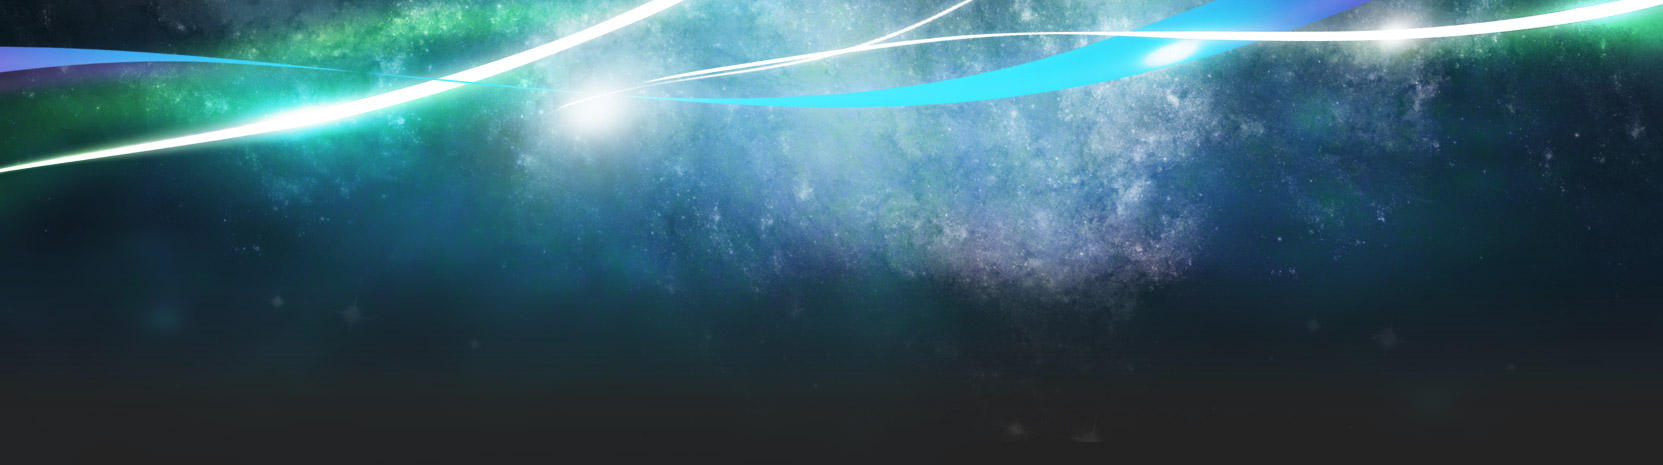
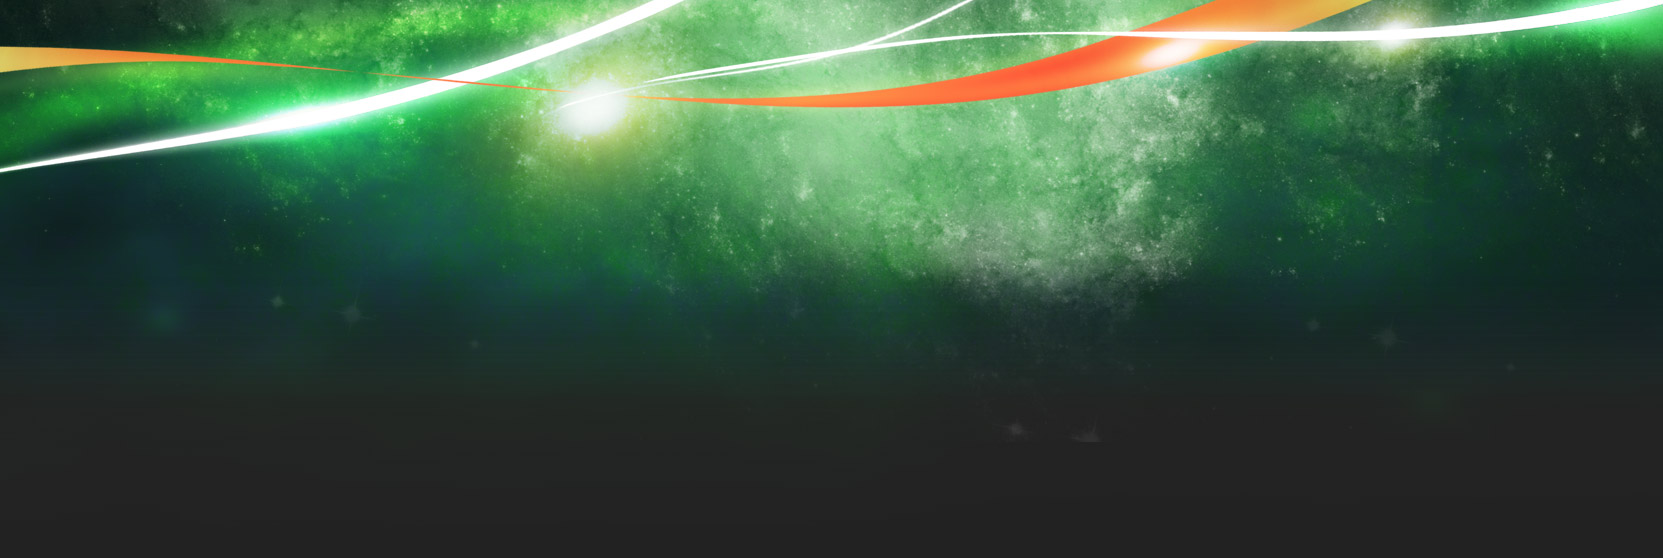
header and toolbars

diff --git a/app/assets/stylesheets/bootstrap/_modals.scss b/app/assets/stylesheets/bootstrap/_modals.scss
@@ -74,8 +74,9 @@
     color: $white;
     & > .close {
       position: absolute;
-      top: 12px;
+      top: 22px;
       right: 20px;
+      color:#ffd000;
     }
     & > h2 {
       padding: 15px 20px 10px;
@@ -100,6 +101,19 @@
          color: $white;
         }
       }
+    }
+    &.gamersph-header {
+      background: #858585; /* Old browsers */
+      background: -moz-linear-gradient(top,  #858585 0%, #505050 52%, #3e3e3e 53%, #1d1d1d 100%, #b0b0b0 100%); /* FF3.6+ */
+      background: -webkit-gradient(linear, left top, left bottom, color-stop(0%,#858585), color-stop(52%,#505050), color-stop(53%,#3e3e3e), color-stop(100%,#1d1d1d), color-stop(100%,#b0b0b0)); /* Chrome,Safari4+ */
+      background: -webkit-linear-gradient(top,  #858585 0%,#505050 52%,#3e3e3e 53%,#1d1d1d 100%,#b0b0b0 100%); /* Chrome10+,Safari5.1+ */
+      background: -o-linear-gradient(top,  #858585 0%,#505050 52%,#3e3e3e 53%,#1d1d1d 100%,#b0b0b0 100%); /* Opera 11.10+ */
+      background: -ms-linear-gradient(top,  #858585 0%,#505050 52%,#3e3e3e 53%,#1d1d1d 100%,#b0b0b0 100%); /* IE10+ */
+      background: linear-gradient(to bottom,  #858585 0%,#505050 52%,#3e3e3e 53%,#1d1d1d 100%,#b0b0b0 100%); /* W3C */
+      filter: progid:DXImageTransform.Microsoft.gradient( startColorstr='#858585', endColorstr='#b0b0b0',GradientType=0 ); /* IE6-9 */
+        h2 {color:#ffd000;}
+
+
     }
   }
 
@@ -130,5 +144,31 @@
     margin-left: 5px;
     margin-bottom: 0;
     // account for input[type="submit"] which gets the bottom margin like all other inputs
+  }
+}
+
+
+.reg-modal-footer {
+  padding-top: 0;
+  ul.reg-cta {
+    list-style: none;
+    margin:0;
+    .ph-register {
+      background-color: hsl(43, 87%, 47%) !important;
+      background-repeat: repeat-x;
+      filter: progid:DXImageTransform.Microsoft.gradient(startColorstr="#f4ca61", endColorstr="#e0a50f");
+      background-image: -khtml-gradient(linear, left top, left bottom, from(#f4ca61), to(#e0a50f));
+      background-image: -moz-linear-gradient(top, #f4ca61, #e0a50f);
+      background-image: -ms-linear-gradient(top, #f4ca61, #e0a50f);
+      background-image: -webkit-gradient(linear, left top, left bottom, color-stop(0%, #f4ca61), color-stop(100%, #e0a50f));
+      background-image: -webkit-linear-gradient(top, #f4ca61, #e0a50f);
+      background-image: -o-linear-gradient(top, #f4ca61, #e0a50f);
+      background-image: linear-gradient(#f4ca61, #e0a50f);
+      border-color: #e0a50f #e0a50f hsl(43, 87%, 42%);
+      color: #333 !important;
+      text-shadow: 0 1px 1px rgba(255, 255, 255, 0.33);
+      -webkit-font-smoothing: antialiased;
+      font-weight: bold;
+    }
   }
 }

diff --git a/app/assets/stylesheets/soldstyles/_default_themes.scss b/app/assets/stylesheets/soldstyles/_default_themes.scss
@@ -217,17 +217,17 @@ a.tb-myauto {
 a.tb-buy {
   display: block;
   width:67px;
-  height:40px;
+  height:45px;
   margin-right: 5px;
-  background-image: url("/assets/buy1.png"); background-position: top center; background-repeat: no-repeat;
+  background-image: url("/assets/ph/toolbar-token.png"); background-position: top center; background-repeat: no-repeat;
 
-  &:hover {background-image: url("/assets/buy_hover.png"); background-position: top center; background-repeat: no-repeat;}
+  //&:hover {background-image: url("/assets/buy_hover.png"); background-position: top center; background-repeat: no-repeat;}
 }
 
 
 //toolbar-shop//
 .toolbar-shop-cat {
-  li.dropdown {padding: 10px 10px 17px 10px;}
+  li.dropdown {padding: 10px 10px 17px 10px; font-size: 14px; font-weight: 100; text-transform: uppercase}
   li.dropdown:hover, li.dropdown.open{
     background-color: #333;
     padding: 10px 10px 17px 10px;
@@ -1525,7 +1525,8 @@ div.auto-over{
   width: 100%;
   left: 0px;
   position: absolute;
-  margin-top: 20px;}
+
+}
 
 .footer-shadow {height: 1px;
   background-color: white;
@@ -2545,7 +2546,22 @@ div.partner-logo:hover .bar {display:block ;}
 //--------------------------------------------------------------PH CODES HERE--------------------------------------------------------------//
 
 .ph-bg-top {
-  background: url("/assets/ph/bg-top.jpg") top center no-repeat #222222;
+background: #222222;
+
+}
+
+.bg-top-wrap {
+  background: url("/assets/ph/bg-top.jpg") top center no-repeat;
+  width: 100%;
+  height: 465px;
+
+
+}
+
+.footer-bg {
+  background: url("/assets/ph/bg-bottom.jpg") top center no-repeat fixed;
+  height: 443px;
+  margin-top: 50px;
   -webkit-background-size: cover;
   -moz-background-size: cover;
   -o-background-size: cover;

diff --git a/app/assets/stylesheets/soldstyles/_navigation.scss b/app/assets/stylesheets/soldstyles/_navigation.scss
@@ -100,14 +100,17 @@
 
     li.dropdown.myaccnt {
       position: relative;
-      height: 48px;
-      background: url(/assets/user.png) no-repeat 10px center;
-      p {margin-left: 30px; margin-top: 7px}
-      a.dropdown-toggle.username {height: 29px; }
-      a.dropdown-toggle.username:hover, a.dropdown-toggle.username:active {background: url(/assets/user.png) #333333  no-repeat 10px 13px; }
+      height: 73px;
+      background: url(/assets/user.png) no-repeat 10px 30px;
+      p {margin-left: 30px; margin-top: 26px}
+      a.dropdown-toggle.username {height: 46px; }
+      a.dropdown-toggle.username:hover, a.dropdown-toggle.username:active {
+        background: url(/assets/user.png)#333333 no-repeat 10px 30px;
+        height: 54px
+      }
     }
     li.dropdown.myaccnt.open {
-      a.dropdown-toggle.username {background: url(/assets/user.png) #333333  no-repeat 10px 13px;}
+      a.dropdown-toggle.username {background: url(/assets/user.png) #333333  no-repeat 10px 30px;}
 
     }
 
@@ -149,8 +152,8 @@
       a.dropdown-toggle.mini-cart:hover, a.dropdown-toggle.mini-cart:hover:active {background: url(/assets/icon-cart-0.png)  #ffffff no-repeat center 25px; height: 75px}
       .badge-cart {
         position: absolute;
-        top: 3px;
-        right: 0;
+        top: 15px;
+        right: 2px;
         border-radius: 55%;
         width: 20px;
         height: 20px;
@@ -288,7 +291,6 @@ ul.dropdown-menu.login{width: 280px;
 
 
 
-ul.reg-cta {list-style: none;margin: 0 0 0 20px;}
 
 
 // fb button //

diff --git a/app/assets/stylesheets/bootstrap/_navbar.scss b/app/assets/stylesheets/bootstrap/_navbar.scss
@@ -7,7 +7,7 @@
 
 .navbar {
   overflow: visible;
-  margin-top: 10px;
+  padding-top: 10px;
 
 }
 
@@ -353,7 +353,7 @@ li.divider-vertical.pull-right {
   &.mymenu {
     border: none;
     position: absolute;
-    top: 49px;
+    top: 65px;
     right: 0;
     background-color: #333333;
     padding:0 0 5px 0;
